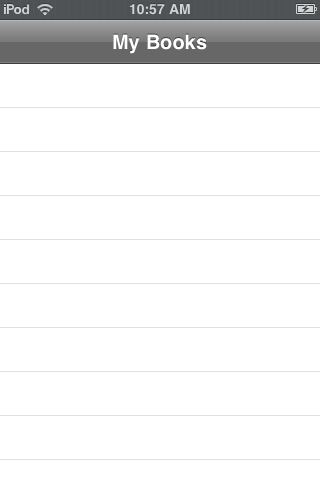
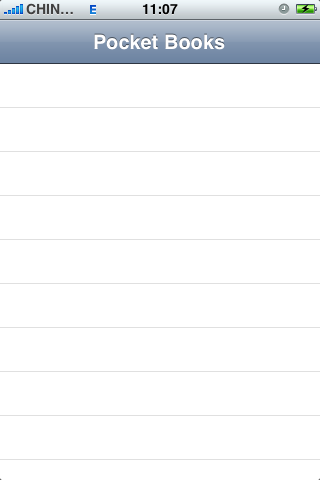
refresh splash screen

Changed region(s): [[0.0, 0.0, 1.0, 0.1562]]

diff --git a/branches/iphone_os_2x_compatible/PocketBooks/FileBrowserViewController/FileBrowserViewController.m b/branches/iphone_os_2x_compatible/PocketBooks/FileBrowserViewController/FileBrowserViewController.m
@@ -14,6 +14,8 @@
 #import "UIAlertView+textField.h"
 #import "PasswordKeeper.h"
 
+#import "Configuration.h"
+
 @interface FileBrowserViewController (Private)
 - (void)doShare;
 - (void)doNewFolder;
@@ -109,6 +111,7 @@ static CGRect s_footerBarFrame = { 0.0, 372.0,  320.0,  44.0 };
 {
     [super viewDidLoad];
 	self.tableView.allowsSelectionDuringEditing = YES;
+#if !GENERATE_SPLASH_SCREEN	
 	AppDelegate *appDelegate = [[UIApplication sharedApplication] delegate];
 	if([self isEqual:appDelegate.rootViewController])
 	{
@@ -119,6 +122,7 @@ static CGRect s_footerBarFrame = { 0.0, 372.0,  320.0,  44.0 };
 	{
 		self.navigationItem.rightBarButtonItem = self.editButtonItem;		
 	}
+#endif
 }
 
 - (void)viewWillAppear:(BOOL)animated 
@@ -148,7 +152,10 @@ static CGRect s_footerBarFrame = { 0.0, 372.0,  320.0,  44.0 };
 		self.navigationController.toolbar.barStyle = UIBarStyleBlack;
 	}
 #endif
+	
+#if !GENERATE_SPLASH_SCREEN
 	[self reloadFiles];
+#endif
 	[self.tableView reloadData];
 }
 
@@ -594,7 +601,7 @@ ERROR:
 		else
 		{		
 			pwdTarget = FGPasswordTargetUnlock;
-			pwdAlertTitle = @"MyBooks Password";
+			pwdAlertTitle = @"PocketBooks Password";
 			pwdAlertMessage = nil;
 			self.curIndexPath = indexPath;
 			[self showPasswordDialog];
@@ -629,7 +636,7 @@ ERROR:
 		else
 		{		
 			pwdTarget = FGPasswordTargetOpen;
-			pwdAlertTitle = @"MyBooks Password";
+			pwdAlertTitle = @"PocketBooks Password";
 			pwdAlertMessage = nil;
 			self.curIndexPath = indexPath;
 			[self showPasswordDialog];
@@ -647,7 +654,7 @@ ERROR:
 	if(aFile.locked)
 	{
 		pwdTarget = FGPasswordTargetDelete;
-		pwdAlertTitle = @"MyBooks Password";
+		pwdAlertTitle = @"PocketBooks Password";
 		pwdAlertMessage = nil;
 		self.curIndexPath = indexPath;
 		[self showPasswordDialog];
@@ -665,7 +672,9 @@ ERROR:
 	[curPath release];
 	curPath = newPath;
 	self.title = [curPath lastPathComponent];
+#if !GENERATE_SPLASH_SCREEN
 	[self reloadFiles];
+#endif
 }
 
 - (void)reloadFiles

diff --git a/branches/iphone_os_2x_compatible/PocketBooks/FGFileManager/FGFileManager.m b/branches/iphone_os_2x_compatible/PocketBooks/FGFileManager/FGFileManager.m
@@ -12,11 +12,11 @@
     NSArray *paths = NSSearchPathForDirectoriesInDomains(NSDocumentDirectory, NSUserDomainMask, YES);
     NSString *docPath = [paths objectAtIndex:0];
     NSFileManager *fileManager = [NSFileManager defaultManager];
-    NSString *writableFullPath = [docPath stringByAppendingPathComponent:@"My Books"];
+    NSString *writableFullPath = [docPath stringByAppendingPathComponent:@"Pocket Books"];
     if (![fileManager fileExistsAtPath:writableFullPath]) 
 	{
 		NSString *defaultFullPath = [[[NSBundle mainBundle] resourcePath] 
-									 stringByAppendingPathComponent:@"My Books"];
+									 stringByAppendingPathComponent:@"Pocket Books"];
 		[fileManager copyItemAtPath:defaultFullPath toPath:writableFullPath error:&error];
 	}
 }
@@ -25,7 +25,7 @@
 {
     NSArray *paths = NSSearchPathForDirectoriesInDomains(NSDocumentDirectory, NSUserDomainMask, YES);
     NSString *docPath = [paths objectAtIndex:0];
-    NSString *writableFullPath = [docPath stringByAppendingPathComponent:@"My Books"];
+    NSString *writableFullPath = [docPath stringByAppendingPathComponent:@"Pocket Books"];
 	return writableFullPath;
 }
 

diff --git a/branches/iphone_os_2x_compatible/PocketBooks/Configuration.h b/branches/iphone_os_2x_compatible/PocketBooks/Configuration.h
@@ -1,0 +1,6 @@
+/*
+ *  Configuration.h
+ *
+ */
+
+#define GENERATE_SPLASH_SCREEN 0
